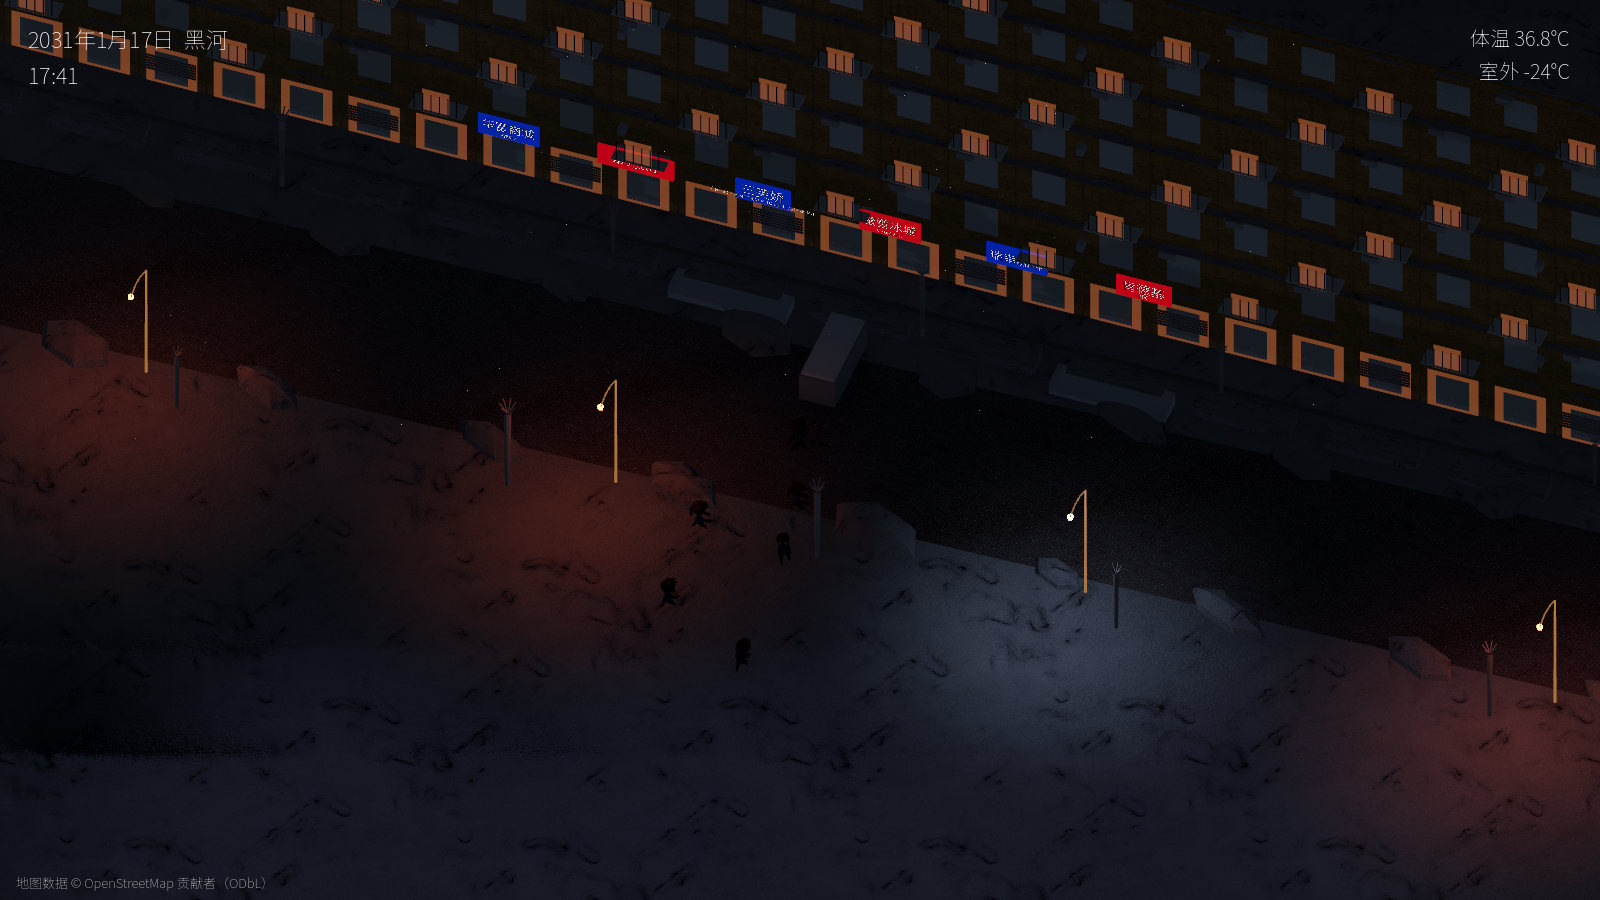
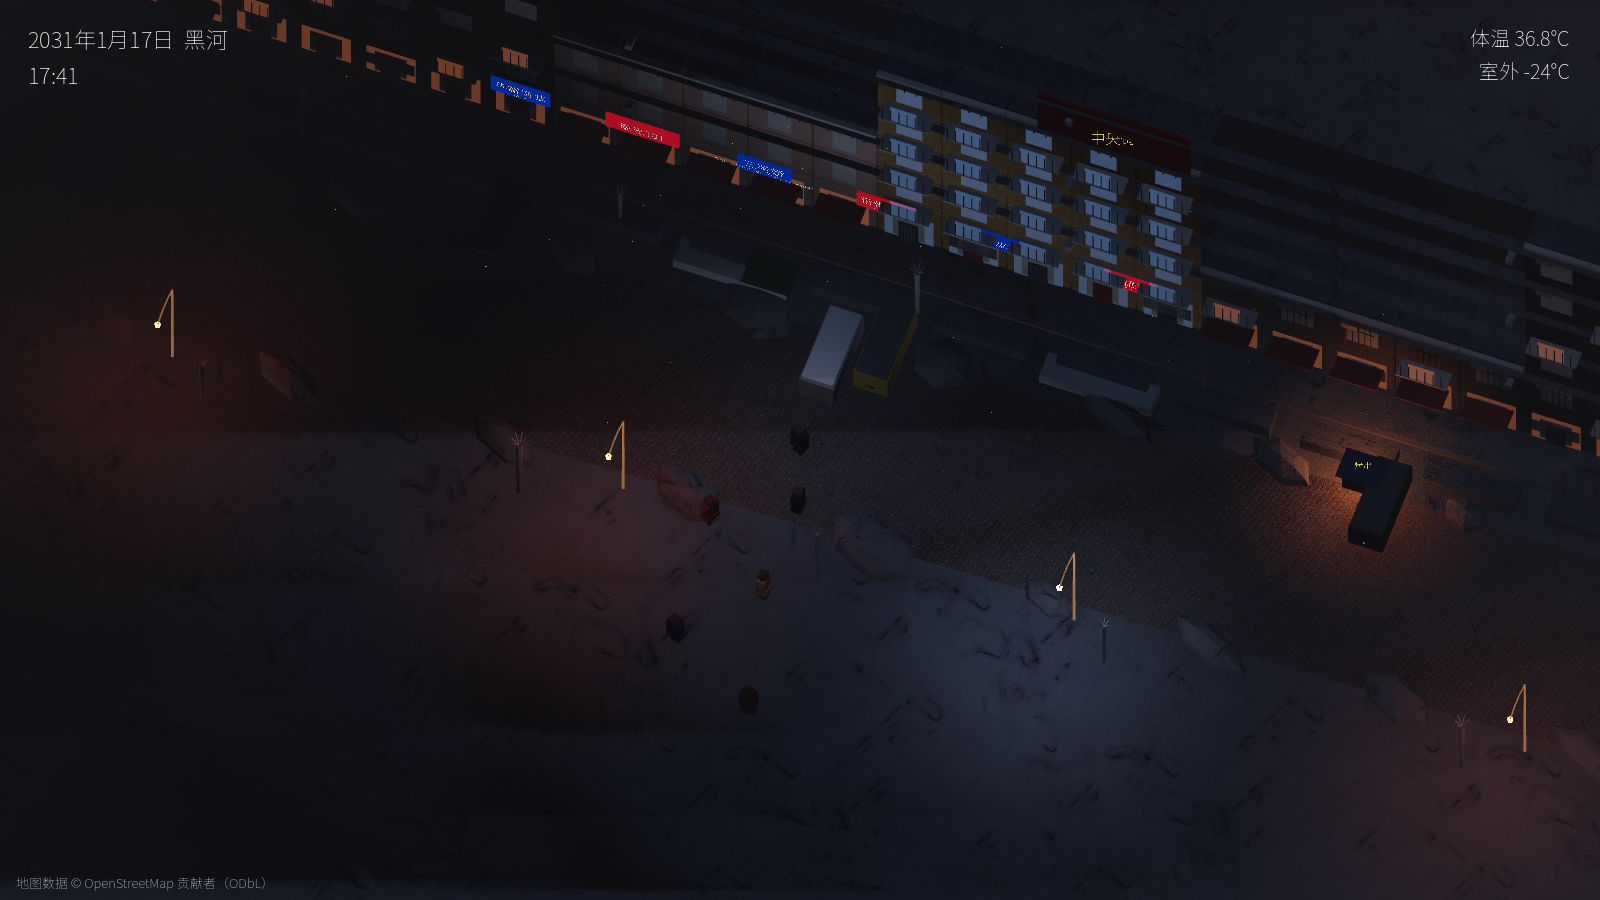
Aim the Central Street block at a Northeast winter street
Closer isometric so one block and its roofs fill the frame, with the street falling off into a cold dark. The shop edge is split into a pastel Russian-style front, a brick walk-up with a roof tank, a two-storey shop row and a beige tile block with blue glass. Door curtains, bars, awnings, coal, a kebab stall, a fruit tarp, a yard gate and a red 中央街 board sit on that edge. People are low-poly long coats and fur hats; infantry are white winter camouflage.

diff --git a/docs/HEIHE_ART_BOARD.md b/docs/HEIHE_ART_BOARD.md
@@ -1,0 +1,23 @@
+# Art board for the 中央街 block
+
+The camera is a close isometric so one block fills the frame and roofs show. Figures stay low-poly. The aim is that the street reads as a Northeast Chinese winter street, not as a generic tiled grid.
+
+## Photos the palette and props were taken from
+
+| What you see | Where it comes from |
+| --- | --- |
+| Yellow and beige ceramic tile, white window frames, enclosed balconies, red and blue lightbox shop signs with Chinese and some Russian | [Streets of Heihe 04.01.2026.jpg](https://commons.wikimedia.org/wiki/File:Streets_of_Heihe_04.01.2026.jpg) and the (2)(3)(4) frames, CC0, SmallSonMarex, night of 4 January 2026. Also [黑河市俄罗斯商品街.jpg](https://commons.wikimedia.org/wiki/File:%E9%BB%91%E6%B2%B3%E5%B8%82%E4%BF%84%E7%BD%97%E6%96%AF%E5%95%86%E5%93%81%E8%A1%97.jpg), CC BY-SA 4.0 |
+| A pedestrian street of mid-rise blocks and a shop row, including the Pushkin bookstore front | [Category:Central Street, Heihe](https://commons.wikimedia.org/wiki/Category:Central_Street,_Heihe), 2017 frames `黑河中央街-1/2/3` and `普希金书店2017.jpg` |
+| Brick sidewalk, curb snow, parked cars, black hooded coats, warm lamps, bare pollarded trees | The same January 2026 night frames |
+| Snow piled along 中央街 after a deep fall | [黑河市人民政府, 12 December 2024](https://www.heihe.gov.cn/hhs/c100749/202412/c11_313720.shtml) |
+| The promenade and the short frozen crossing toward Blagoveshchensk | [Heihe riverside guide](https://chinafootprints.com/heihe/heihe-riverside-parks-central-street); [Goldthread](https://www.goldthread2.com/travel/china-russia-border-suitcase-trade/article/3074316); summer views from the Russian bank, [Blagoveshchensk, Russia --- Heihe, China](https://commons.wikimedia.org/wiki/File:Blagoveshchensk,_Russia_---_Heihe,_China_(8789415981).jpg), CC BY 2.0 |
+| Pastel render, white cornices and taller openings on Central Street's Russian-style shopfronts | The Russian-goods-street photo and the Central Street daylight frames. The in-game arches and pink render are a simplification of that look, not a measured facade |
+| Quilted door curtains (棉门帘), plastic strip curtains, balcony cages, roof water tanks, coal stacks, heating pipes, 烤串 stalls, tarp fruit stands, 小区 gates, 黑 number plates, fur hats, sooty snow | Ordinary winter streets across Heilongjiang cities (Heihe, Harbin, Qiqihar). Not copied from one frame. They are the props a local would expect and the January Heihe photos do not all show at once |
+
+## How that became the block
+
+Along the shop edge the kit changes every five bays: a short pastel Russian-style front, a six-storey brick walk-up with a roof tank, a two-storey shop row with an awning, and a beige tile block with blue glass. Roofs are flat and snowy so the close camera can see them. Outside the player's pool the street falls off into blue dusk and fog.
+
+## Still not the photographs
+
+The bays repeat inside each type. Arches are a sphere cap, not masonry. The 黑A plates are a yellow label on a black rectangle, not a real plate. Cars are boxes. The far bank in the river frame is still a shortened stand-in. Soldiers are white blocks with a rifle, not a photographed winter uniform. No overhead wires.

diff --git a/CREDITS.md b/CREDITS.md
@@ -70,7 +70,7 @@ Wind, snow crunch, the phone tone and the distant booms are synthesized in `tool
 These files are in the repo and are not covered by the proprietary code licence.
 
 - Textures from [Poly Haven](https://polyhaven.com) (CC0): `snow_02`, `snow_04`, `asphalt_02`, `rectangular_facade_tiles`, `yellow_plaster`, `white_plaster_02`, `red_brick_03`, `granite_tile`, `concrete_wall_001`. 1K JPG, diffuse and normal (and roughness for snow and asphalt). Files live in `assets/textures/polyhaven/`.
-- Characters from [Quaternius](https://quaternius.com) (CC0): Casual Male, Casual Female and Worker Male, from the Universal / casual character packs. The glb files in `assets/models/quaternius/` are those meshes. They are casual and work clothes, not a surveyed Northeast winter coat and not a current Russian infantry uniform. A rifle box on the worker is original.
+- Character files from [Quaternius](https://quaternius.com) (CC0): Casual Male, Casual Female and Worker Male, kept in `assets/models/quaternius/`. The street figures in the current build are original low-poly coats and fur hats, and white winter camouflage with a helmet and rifle, because those CC0 meshes read as casual clothes rather than a Northeast winter street.
 
 ## Engine
 
